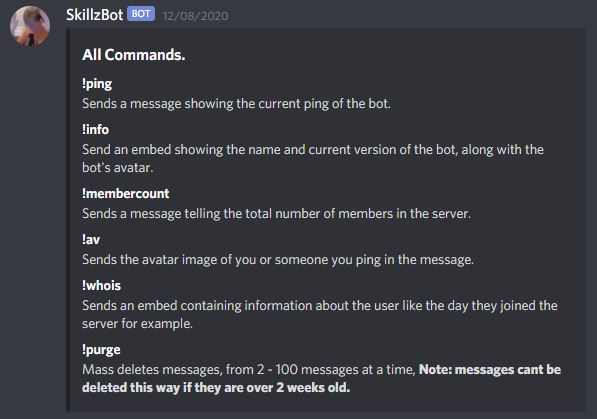
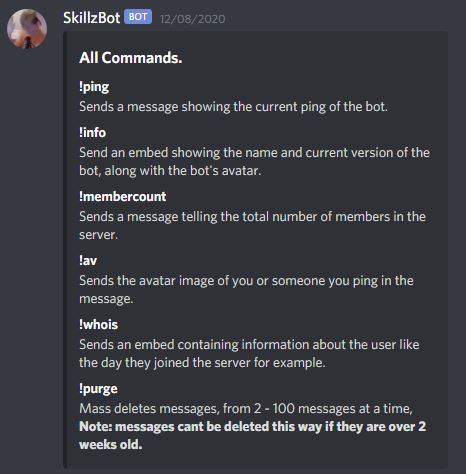
Testing Mobile Fix

Changed region(s): [[0.0, 0.0, 0.9614, 0.9618]]

diff --git a/index.html b/index.html
@@ -11,7 +11,6 @@
 
 <body>
     <script type="text/javascript" src="./smoothscroll.min.js"></script>
-    <script type="text/javascript" src="./mobile.js"></script>
     <!-- Hero Section -->
     <section id="hero">
         <div class="hero container">
@@ -48,7 +47,12 @@
                         </p>
                     </div>
                     <div class="project-image">
-                        <img src="img/SkillzBot.JPG" alt="SkillzBot !help"> </div>
+                        <picture>
+                            <source media="(max-width: 599px)" srcset="./img/SkillzBot.jpg">
+                            <source media="(min-width: 600px)" srcset="./img/SkillzBotDesktop.jpg">
+                            <img src="./img/SkillzBot.JPG">
+                        </picture>
+                    </div>
                 </div>
             </div>
             <div><a href="#" type="button" class="oldproj">Previous Projects</a></div>

diff --git a/README.md b/README.md
@@ -1,2 +1,6 @@
 # SkillzDev-Site
 Files for https://SkillzDevelopment.xyz
+
+Sources:
+smoothScroll, by alicelieutier
+https://github.com/alicelieutier/smoothScroll
